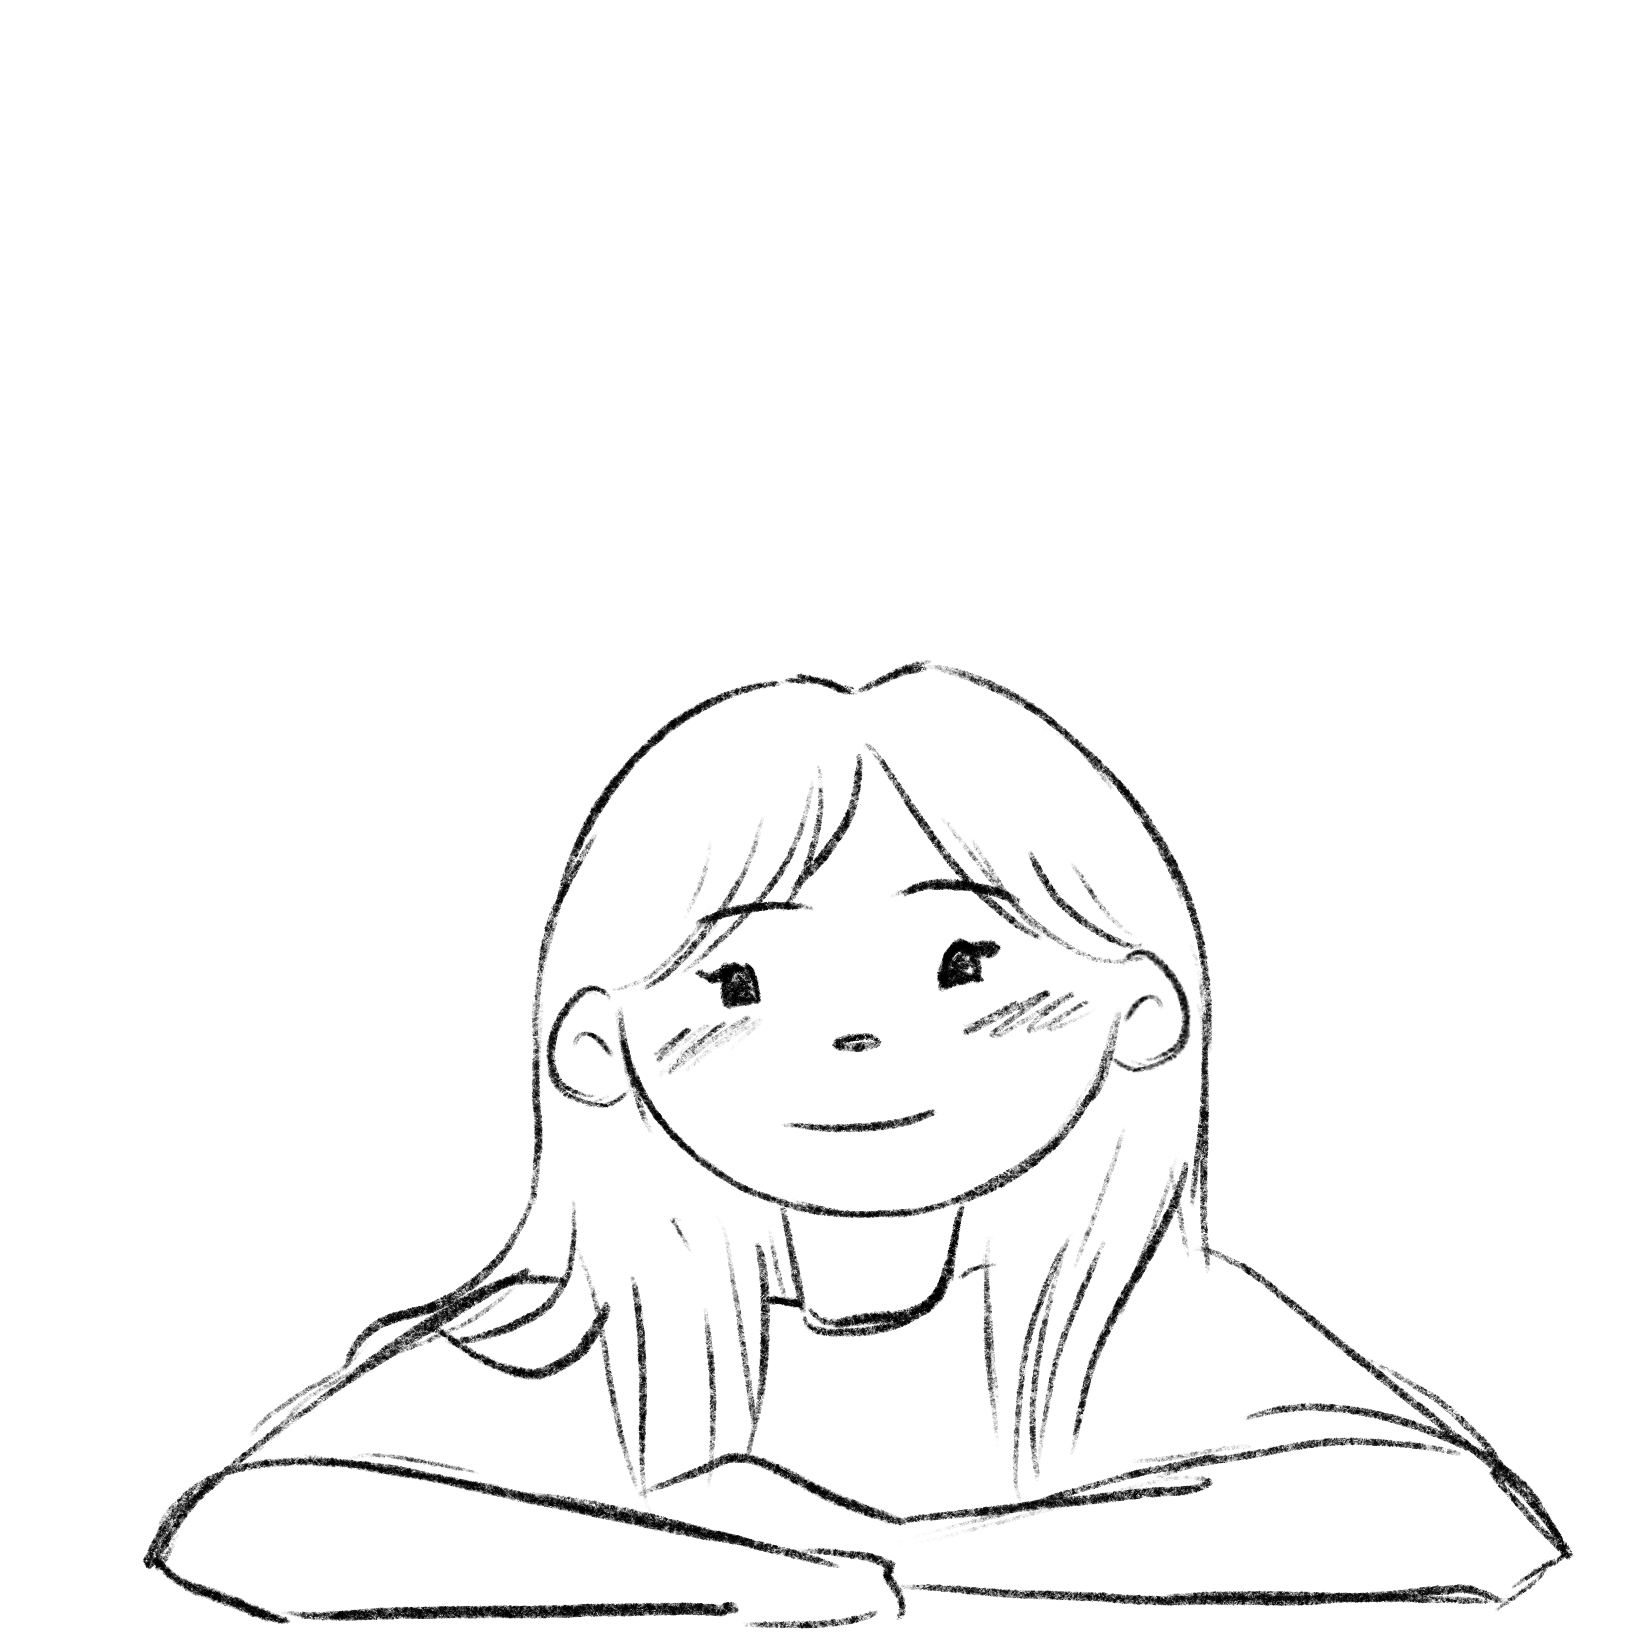
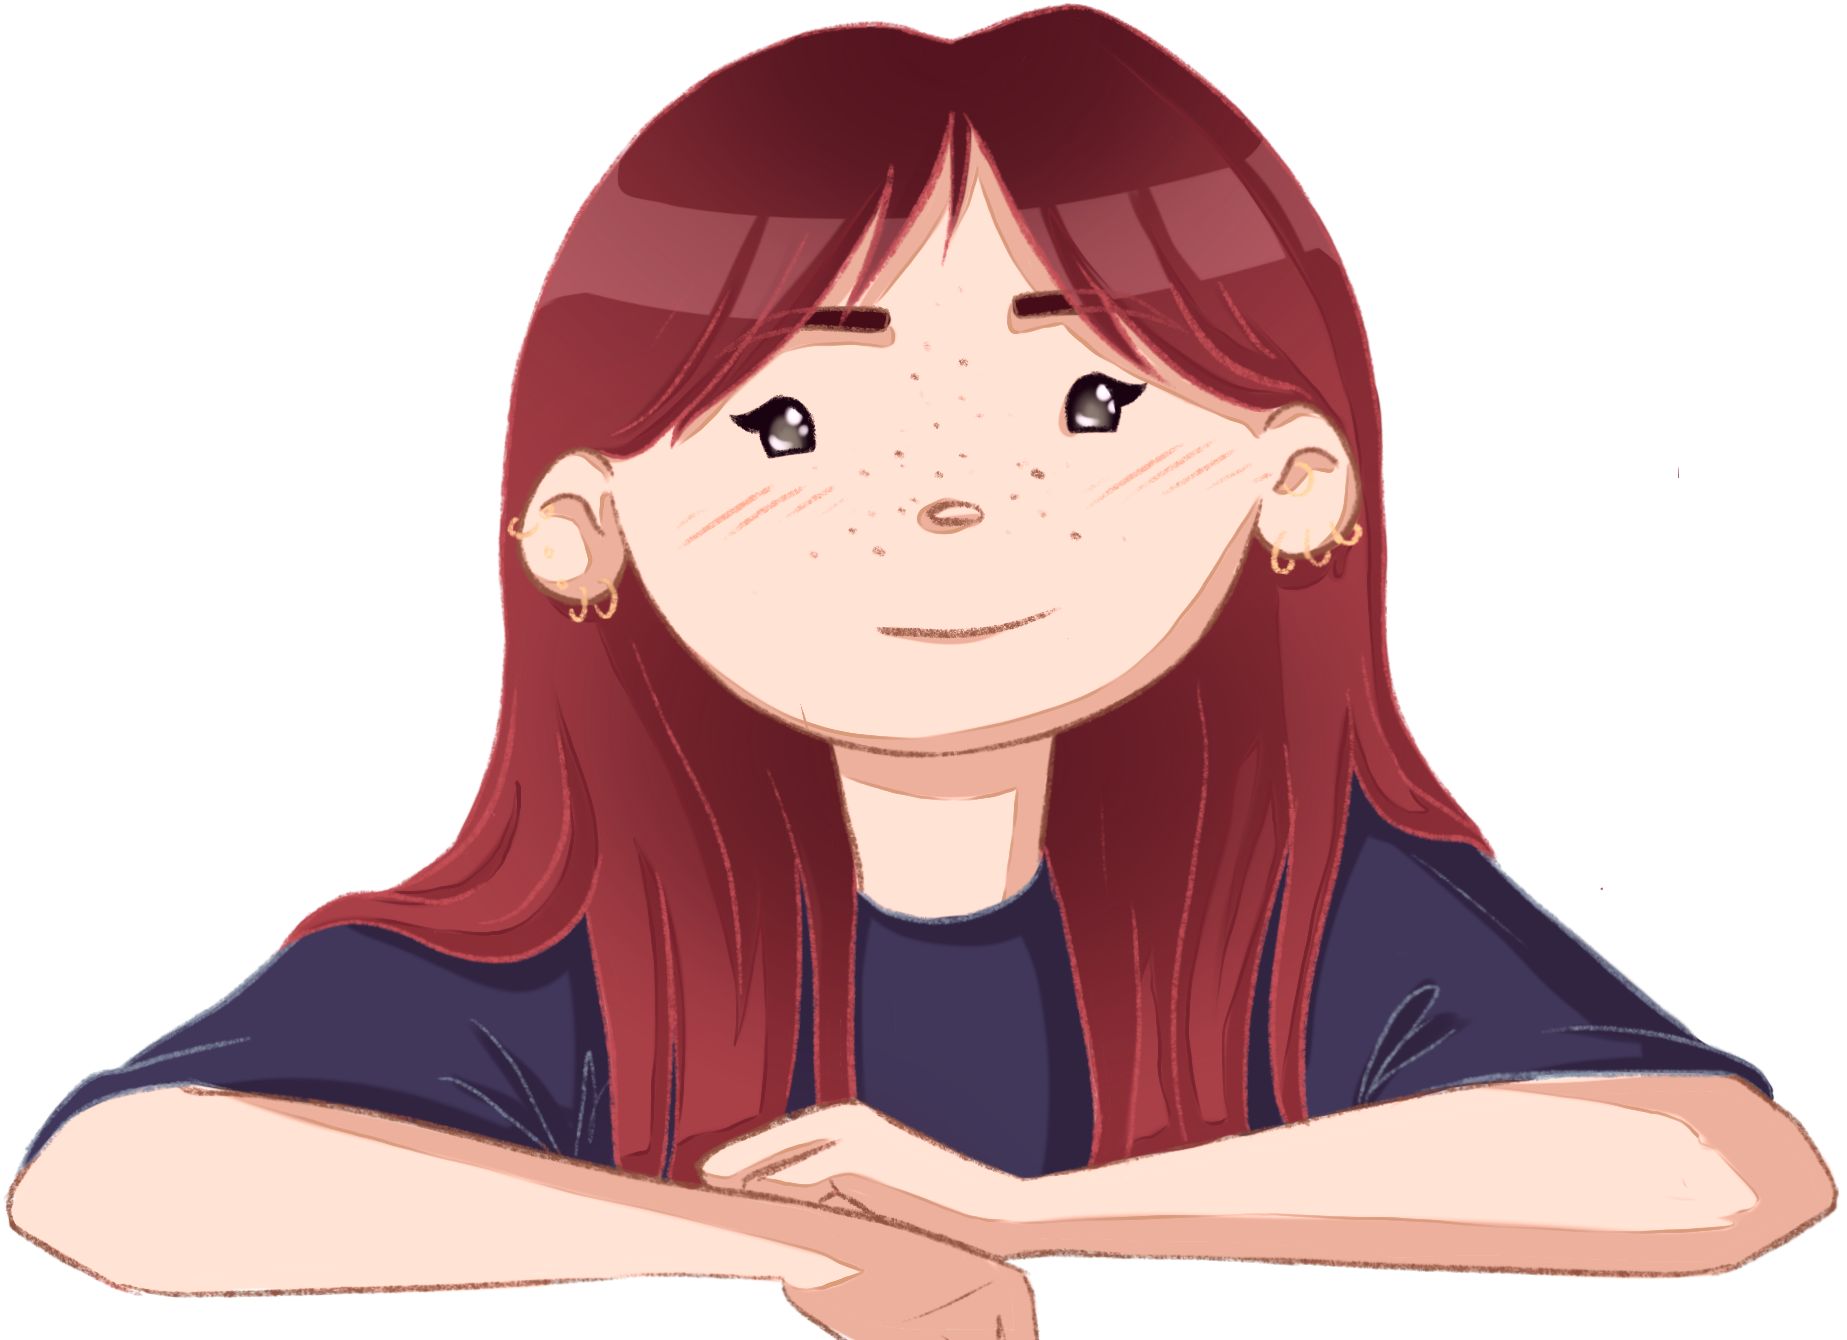
Accueil Done

diff --git a/src/pages/Accueil/Accueil.js b/src/pages/Accueil/Accueil.js
@@ -1,3 +1,4 @@
+import { Link } from "react-router-dom";
 import Border from "../../components/Border/Border";
 import Navigation from "../../components/Navigation/Navigation";
 import { AccueilContainer, PagesContainer } from "./Accueil.style";
@@ -7,8 +8,40 @@ function Acceuil() {
     <AccueilContainer>
       <PagesContainer>
         <Navigation />
-        <Border/>
-        <div>Acceuil</div>
+        <Border />
+        <div className="title__container" >
+          <h2 className="title AmaticSC" >Bienvenue !</h2>
+        </div>
+        <div className="paragraph__container" >
+          <p className="paragraph1 MontserratAlternates" >
+          Je m'appelle Louise Levasseur, et je suis passionnée par les dessins
+          animés et le dessin depuis l'enfance. Au fil des années, cette passion
+          ne m'a jamais quitté et lorsque j'ai découvert ECV Bordeaux, la
+          question ne se posait plus, et je suis entrée dans cette école en
+          Septembre 2018. 
+          </p>
+          <p className="paragraph2 MontserratAlternates" >Depuis la rentrée 2021, j'ai choisi la spécialisation
+          animation 2D qui est le domaine dans lequel je souhaiterai travailler.
+          </p>
+          <p className="paragraph3  MontserratAlternates">
+          Je te laisse découvrir mon portfolio !
+          </p>
+        </div>
+        <div className="demo__container" >
+        <div className="arrow__container" >
+          <img  className="pad pad-right" src="images\accueil\coussinetLeft.png" alt="" />
+        </div>
+        <div className="demoreel__container" >
+          <Link to="Animation2D" className="demoreel AmaticSC">Ma demoreel</Link>
+        </div>
+        <div className="arrow__container" >
+        </div>
+          <img className="pad pad-left" src="images\accueil\coussinetRight.png" alt="" />
+        </div>
+        <div className="image__container" >
+        <img className="image" src='images\accueil\louise.png' alt="aaaaaaaa" />
+        </div>
+
       </PagesContainer>
     </AccueilContainer>
   );

diff --git a/src/pages/Accueil/Accueil.style.js b/src/pages/Accueil/Accueil.style.js
@@ -1,11 +1,104 @@
 import styled from "styled-components";
 
 export const AccueilContainer = styled.div`
-  height: 100vh;
   width: 100vw;
+  height: 100vh;
   display: flex;
   justify-content: center;
   background-color: #ffe0e0;
+  position: relative;
+
+ .title__container {
+  display: flex;
+  align-items: center;
+  justify-content: center;
+  margin-top: 3em;
+  margin-bottom: -2.5em;
+  font-family: 'Amatic SC';
+
+    .title {
+      font-size: 3.5em;
+      color: #8f4646;
+      font-weight: 700;
+      margin-bottom: 0.3em;
+      letter-spacing: 0.05em;
+      
+    }
+
+  }
+  
+  .paragraph__container {
+    display: flex;
+    flex-wrap: wrap;
+    align-items: center;
+    justify-content: center;
+    padding: 3em;
+    text-align: center;
+    font-size: 1.35em;
+    line-height: 28px;
+    font-weight: 400;
+    color: #8f4646;
+    .paragraph1  {
+      margin-bottom: 1em;
+      width: 45em;
+    }
+
+    .paragraph2  {
+      width: 30em;
+      margin-bottom: 1em;
+    }
+
+    .paragraph3  {
+      width: 30em;
+    }
+
+  }
+
+  .demo__container {
+    display: flex;
+    align-items: center;
+    justify-content: center;
+    margin-top: -1.1em;
+
+    .pad {
+      width: 1.5em;
+      margin-top: 0.3em;
+    }
+    
+    .pad-right {
+      margin-right: 1em;
+    }  
+    .pad-left {
+      margin-left: 0.8em;
+    }
+
+    .demoreel__container {
+      transition: 0.2s ease-in-out;
+
+      .demoreel {
+        font-size: 2.5em;
+        font-weight: bold;
+        color: #e49393;
+        text-decoration: none;
+      }
+    }
+
+    .demoreel__container:hover {
+      transform: scale(1.1);
+    }
+  }
+
+  .image__container {
+    display: flex;
+    align-items: center;
+    justify-content: center;
+    margin-top: 3.1em;
+    
+    .image {
+      width: 400px;
+    }
+  }
+
 `;
 
 export const PagesContainer = styled.div`

diff --git a/src/components/Navigation/Navigation.js b/src/components/Navigation/Navigation.js
@@ -5,33 +5,33 @@ const Navigation = () => {
   return (
     <NavigationContainer>
       <div className="name__container">
-        <h1 className="name">Louise Levasseur</h1>
-        <p className="text">Animation 2D</p>
+        <h1 className="name AmaticSC">Louise Levasseur</h1>
+        <p className="text AmaticSC">Animation 2D</p>
       </div>
       <div className="navbar__container">
         <ul className="navbar__list">
           <li className="navbar__item">
-            <Link className="navbar__link" to="/">
+            <Link className="navbar__link AmaticSC" to="/">
               Accueil
             </Link>
           </li>
           <li className="navbar__item">
-            <Link className="navbar__link" to="/Animation2D">
+            <Link className="navbar__link AmaticSC" to="/Animation2D">
             Animation 2D
             </Link>
           </li>
           <li className="navbar__item">
-            <Link className="navbar__link" to="/Movie3020">
+            <Link className="navbar__link AmaticSC" to="/Movie3020">
             3020
             </Link>
           </li>
           <li className="navbar__item">
-            <Link className="navbar__link" to="/Illustration">
+            <Link className="navbar__link AmaticSC" to="/Illustration">
             illustration
             </Link>
           </li>
           <li className="navbar__item">
-            <Link className="navbar__link" to="/Contact">
+            <Link className="navbar__link AmaticSC" to="/Contact">
             Contact
             </Link>
           </li>

diff --git a/src/font.css b/src/font.css
@@ -1,0 +1,46 @@
+@import url('https://fonts.googleapis.com/css2?family=Amatic+SC:wght@400;700&family=Boogaloo&family=Montserrat+Alternates:ital,wght@0,100;0,200;0,400;0,500;0,700;0,800;0,900;1,100;1,300;1,400;1,700;1,800;1,900&family=Patrick+Hand&family=Sanchez:ital@0;1&family=Special+Elite&family=Titan+One&display=swap');
+
+/* font-family: 'Amatic SC', cursive;
+font-family: 'Boogaloo', cursive;
+font-family: 'Montserrat Alternates', sans-serif;
+font-family: 'Patrick Hand', cursive;
+font-family: 'Sanchez', serif;
+font-family: 'Special Elite', cursive;
+font-family: 'Titan One', cursive; */
+
+.AmaticSC {
+    font-family: 'Amatic SC', cursive;
+}
+
+.Boogaloo {
+    font-family: 'Boogaloo', cursive;
+}
+
+.TitanOne {
+    font-family: 'Titan One', cursive;
+}
+
+.MontserratAlternates {
+    font-family: 'Montserrat Alternates', sans-serif;
+}
+
+.PatrickHand {
+    font-family: 'Patrick Hand', cursive;
+}
+
+.Sanchez {
+    font-family: 'Sanchez', serif;
+}
+
+.SpecialElite {
+    font-family: 'Special Elite', cursive;
+}
+
+.louise-and-pepsi {
+    width: 250px;
+    position: absolute;
+    right: 0;
+    top: 230px;
+}
+
+

diff --git a/src/components/Navigation/Navigation.style.js b/src/components/Navigation/Navigation.style.js
@@ -16,10 +16,11 @@ export const NavigationContainer = styled.div`
     margin-bottom: 1em;
     flex-wrap: wrap;
     height: 100%;
+    letter-spacing: 0.1em;
     
     .name {
       font-size: 2em;
-      margin-bottom: -1.5em;
+      margin-bottom: -1em;
     }
 
     .text {
@@ -37,7 +38,7 @@ export const NavigationContainer = styled.div`
     .navbar__list {
       display: flex;
       justify-content: space-evenly;
-      margin-left: -2em;
+      margin-left: -5em;
       width: 100%;
 
       list-style: none;
@@ -45,7 +46,7 @@ export const NavigationContainer = styled.div`
 
       .navbar__item {
         margin-left: 0.5rem;
-        font-size: 1.5em;
+        font-size: 2em;
         transition: transform 0.3s ease-in-out;
         
         
@@ -55,6 +56,9 @@ export const NavigationContainer = styled.div`
           text-decoration : none;
           color: #8f4646;
           position: relative;
+          font-size: 1.2em;
+          font-weight: 700;
+          letter-spacing: 0.05em;
         }
 
         .navbar__link:after {

diff --git a/src/pages/3020/Movie3020.js b/src/pages/3020/Movie3020.js
@@ -10,8 +10,30 @@ const Movie3020 = () => {
     setMounted(true)
   }, [])
 
+  useEffect(() => {
+    window.addEventListener('beforeunload', handleBeforeUnload);
+
+    return () => {
+      window.removeEventListener('beforeunload', handleBeforeUnload);
+    };
+  }, []);
+
+  function handleBeforeUnload(event) {
+    // Désactiver la boîte de dialogue d'avertissement par défaut
+    event.preventDefault();
+
+    // Lancer l'animation
+    document.querySelector('#root').classList.add('animate-fadeout');
+
+    // Attendre la fin de l'animation avant de quitter la page
+    setTimeout(() => {
+      window.removeEventListener('beforeunload', handleBeforeUnload);
+      window.location.href = event.currentTarget.href;
+    }, 1000);
+  }
+
     return (
-      <MovieContainer props={mounted}>
+      <MovieContainer id="root" props={mounted}>
           <PagesContainer props={mounted}>
             <Navigation />
             <Border/>

diff --git a/src/pages/Animation2d/Animation2d.js b/src/pages/Animation2d/Animation2d.js
@@ -5,6 +5,7 @@ import { AnimationContainer, PagesContainer } from "./Animation2d.style";
 const Animation2D = () => {
     return (
       <AnimationContainer>
+                       <img className="louise-and-pepsi" src='images\accueil\louise-and-pepsi.png' alt="aaaaaaaa" />
         <PagesContainer>
           <Navigation />
           <Border/>

diff --git a/src/App.js b/src/App.js
@@ -1,5 +1,6 @@
 import './App.css';
-import './reset.css'
+import './font.css';
+import './reset.css';
 import { Route, Routes } from 'react-router-dom';
 
 import Accueil from './pages/Accueil/Accueil';

diff --git a/src/pages/3020/Movie3020.style.js b/src/pages/3020/Movie3020.style.js
@@ -1,5 +1,4 @@
 import styled from 'styled-components';
-import keyframes from 'styled-components';
 
 export const MovieContainer = styled.div`
   height: 100vh;
